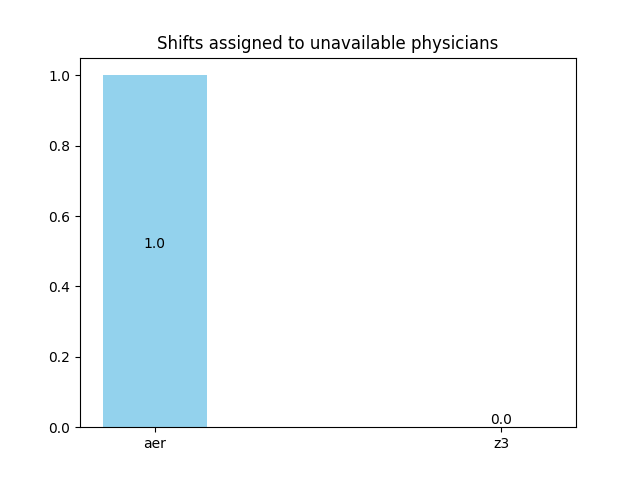
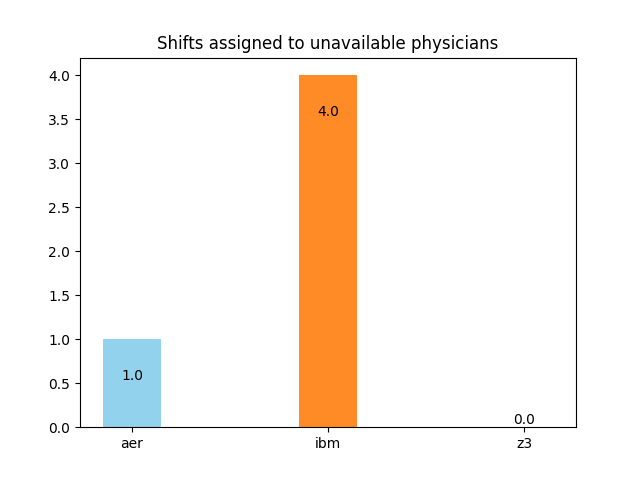
plot depth and 2-gates june

diff --git a/plot_stats_june.py b/plot_stats_june.py
@@ -95,14 +95,14 @@ def plotStats(plot_data, methods, title=''):
     plt.show()
 
 n_physicians = 15 # SHOULD BE 15 
-methods = ['aer', 'z3']   #, 'ibm', 'gurobi', 'z3'] #maybe not z3
+methods = ['aer', 'ibm', 'z3']   #, 'ibm', 'gurobi', 'z3'] #maybe not z3
 all_data = {}
 time_period = 'all'
 cl = 3
 lambdas = {'demand':3, 'fair':10, 'pref':5, 'unavail':15, 'extent':8, 'rest':0, 'titles':5, 'memory':3} 
 physician_universal_june = pd.read_csv('data/intermediate/physician_universal_june.csv', index_col=None)
 
-timestamps = {'aer':1746722550,'ibm':00000,'gurobi':0000,'z3':1746721526}
+timestamps = {'aer':1746722550,'ibm':1746706255,'gurobi':0000,'z3':1746721526}
 times_plot, Hcs_plot, manys_plot, fews_plot, titles_plot, sat_avgs_plot, sat_vars_plot, extents_plot, unavails_plot, physicians_compare  = [], [],[], [],[], [],[], [],[], []
 for method in methods:
     if method =='z3':
@@ -111,7 +111,7 @@ for method in methods:
 
 for method in methods:
     printDataJune(method)
-    plotDataJune(method, schedule=False) # Plot schedule and append stats to lists
+    plotDataJune(method, schedule=True) # Plot schedule and append stats to lists
 
 
 plotStats(times_plot, methods, title='Full computation time')
@@ -123,9 +123,16 @@ plotStats(sat_avgs_plot, methods, title='Average satisfaction')
 plotStats(sat_vars_plot, methods, title='Variance among satisfactions')
 plotStats(extents_plot, methods, title='Wrong number of shifts per physician')
 plotStats(unavails_plot, methods, title='Shifts assigned to unavailable physicians')
+
+
 if 'aer' in methods and 'ibm' in methods:
+    # Plot 2-gates and circuit depth
     quantum_methods = ['aer', 'ibm']
-    plotStats([])
+    aer_n_doubles, aer_depth = all_data['aer']['run']['double gates'], all_data['aer']['run']['depth']
+    ibm_n_doubles, ibm_depth = all_data['ibm']['run']['double gates'], all_data['ibm']['run']['depth']
+    plotStats([aer_n_doubles, ibm_n_doubles],quantum_methods, title='Number of 2-qubit gates')
+    plotStats([aer_depth, ibm_depth], quantum_methods, title='Depth of transpiled circuits')
+
 
 
 
